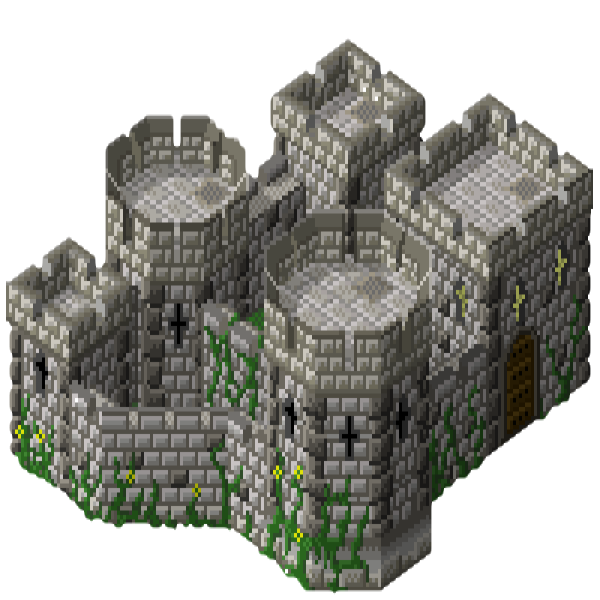
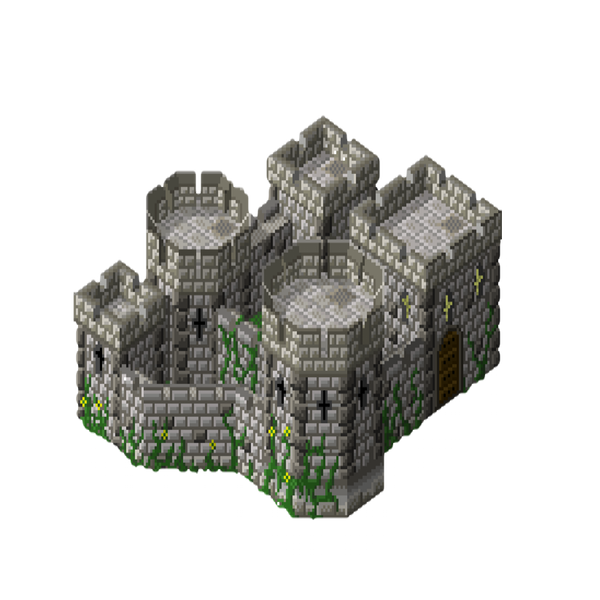
Polish castle rendering Implement controls palette

diff --git a/lib/board.dart b/lib/board.dart
@@ -6,16 +6,16 @@ import 'package:isogame/enums.dart';
 import 'package:isogame/graphics.dart';
 
 
-const TERRAIN_SCALE = true;
-const TERRAIN_ROTATE = true;
-const ITEM_ROTATE = true;
-const ITEM_IMAGE_BORDER = false;
+bool TERRAIN_SCALE = true;
+bool TERRAIN_ROTATE = true;
+bool ITEM_ROTATE = true;
+bool ITEM_IMAGE_BORDER = false;
 
 
 ////////////////////////////////////////////////////////////////////////////////////////////////////
 // TERRAIN
 ////////////////////////////////////////////////////////////////////////////////////////////////////
-class Terrain extends Widget {
+class Terrain extends Widget with Attach {
   final Size tileSize;
   List<List<Tile>> _tiles;
   TilesAccessor _tilesAccesor;
@@ -44,10 +44,6 @@ class Terrain extends Widget {
     int y = (bounds.diagonalLength - scaledBounds.diagonalLength) ~/ 2;
 
     position = new Point(x, -y);
-  }
-
-  void attach(Element parent) {
-    parent.append(element);
   }
 
   TilesAccessor get tiles => _tilesAccesor;
@@ -132,22 +128,21 @@ abstract class Item extends Widget {
   final Size _tileSize;
   final int _tileHeight;
   Element _image;
-  Element _placeHolder;
+
+  final _placeHolder = new DivElement()
+      ..style.position = "absolute"
+      ..style.left = "0"
+      ..style.top = "0"
+      ..style.right = "0"
+      ..style.bottom = "0"
+      ..style.opacity = "0.4";
 
   Item(this._tileSize, this._tileHeight);
 
   Element createElement() {
-    _placeHolder = new DivElement()
-        ..style.position = "absolute"
-        ..style.left = "0"
-        ..style.top = "0"
-        ..style.right = "0"
-        ..style.bottom = "0"
-        ..style.opacity = "0.4";
-
     _image = createImage()
         ..style.position = "absolute"
-        ..style.border = ITEM_IMAGE_BORDER ? "1px solid blue" : ""
+        ..style.border = ITEM_IMAGE_BORDER ? "2px solid blue" : ""
         ..style.setProperty("-webkit-transform", "${ITEM_ROTATE ? 'rotate(-45deg)' : ''}");
 
     return new DivElement()
@@ -159,14 +154,13 @@ abstract class Item extends Widget {
 
   void initialize() {
     super.initialize();
-
     size = _tileSize.scale(Tile.SIZE);
   }
 
   void set size(Size size) {
     super.size = size;
 
-    // Image position
+    // Image size
     var bounds = new Rectangle(Point.ORIGIN, size);
     var diagonalLength = bounds.diagonalLength;
     var imageSize = new Size(diagonalLength, diagonalLength + _tileHeight * Tile.DIAGONAL_LENGTH);
@@ -174,7 +168,7 @@ abstract class Item extends Widget {
     _image.style.width = "${imageSize.width}px";
     _image.style.height = "${imageSize.height}px";
 
-    // Image size
+    // Image position
     var imagePosition = new MutablePoint();
 
     imagePosition.x = size.width ~/ 2;
@@ -187,7 +181,6 @@ abstract class Item extends Widget {
   }
 
   void set highlight(String color) {
-    element;
     _placeHolder.style.backgroundColor = (color == null) ? "" : color;
   }
 
@@ -198,5 +191,3 @@ abstract class Item extends Widget {
     _image.style.top = "${y}px";
   }
 }
-
-

diff --git a/lib/controls.dart b/lib/controls.dart
@@ -1,0 +1,34 @@
+library controls;
+
+import 'dart:async';
+import 'dart:html' hide Rectangle, Point;
+
+import 'package:isogame/graphics.dart';
+
+
+////////////////////////////////////////////////////////////////////////////////////////////////////
+// DEBUG PANEL
+////////////////////////////////////////////////////////////////////////////////////////////////////
+class DebugPanel extends Widget with Attach {
+  final _showItemImageBorders = new CheckboxInputElement();
+  final _showItemImageBordersLabel = new SpanElement()..appendText("Show item borders");
+
+  @override
+  Element createElement() => new DivElement()
+      ..style.border = "2px solid white"
+      ..style.padding = "1em"
+      ..style.margin = "0.5em"
+      ..append(new DivElement()
+          ..append(_showItemImageBorders)
+          ..append(_showItemImageBordersLabel));
+
+  void initialize() {
+    element.style.left = "";
+    element.style.top = "0px";
+    element.style.right = "0px";
+    element.style.width = "";
+    element.style.height = "";
+  }
+
+  Stream get onShowItemImageBordersChange => _showItemImageBorders.onChange;
+}

diff --git a/web/isogame.dart b/web/isogame.dart
@@ -4,11 +4,26 @@ import 'dart:html';
 import 'dart:math';
 
 import 'package:isogame/board.dart';
+import 'package:isogame/controls.dart';
 import 'package:isogame/graphics.dart';
 import 'package:isogame/items.dart';
 
 
 void main() {
+  var terrain = _createTerrain();
+  terrain.attach(document.body);
+
+  var debugPanel = new DebugPanel();
+  debugPanel.onShowItemImageBordersChange.listen((ev) {
+    terrain.detach();
+    ITEM_IMAGE_BORDER = !ITEM_IMAGE_BORDER;
+    terrain = _createTerrain();
+    terrain.attach(document.body);
+  });
+  debugPanel.attach(document.body);
+}
+
+Terrain _createTerrain() {
   final terrainSize = new Size(20, 20);
   final terrain = new Terrain(terrainSize);
   final rnd = new Random();
@@ -59,6 +74,6 @@ void main() {
     }
   }
 
-  terrain.attach(document.body);
+  return terrain;
 }
 

diff --git a/lib/items.dart b/lib/items.dart
@@ -44,7 +44,7 @@ class Tree extends Item {
 // CASTLE
 ////////////////////////////////////////////////////////////////////////////////////////////////////
 class Castle extends Item {
-  static final TILE_SIZE = new Size(3, 3);
+  static final TILE_SIZE = new Size(6, 6);
   static const TILE_HEIGHT = 3;
 
   Castle() : super(TILE_SIZE, TILE_HEIGHT);
@@ -53,7 +53,6 @@ class Castle extends Item {
 
   void initialize() {
     super.initialize();
-
     level = 2;
   }
 }

diff --git a/lib/graphics.dart b/lib/graphics.dart
@@ -156,3 +156,15 @@ abstract class Widget {
     parent.append(element);
   }
 }
+
+abstract class Attach {
+  Element get element;
+
+  void attach(Element parent) {
+    parent.append(element);
+  }
+
+  void detach() {
+    element.remove();
+  }
+}

diff --git a/web/isogame.css b/web/isogame.css
@@ -4,6 +4,7 @@ body {
   font-size: 14px;
   font-weight: normal;
   line-height: 1.2em;
+  color: white;
   margin: 0px;
   padding: 0px;
 }
